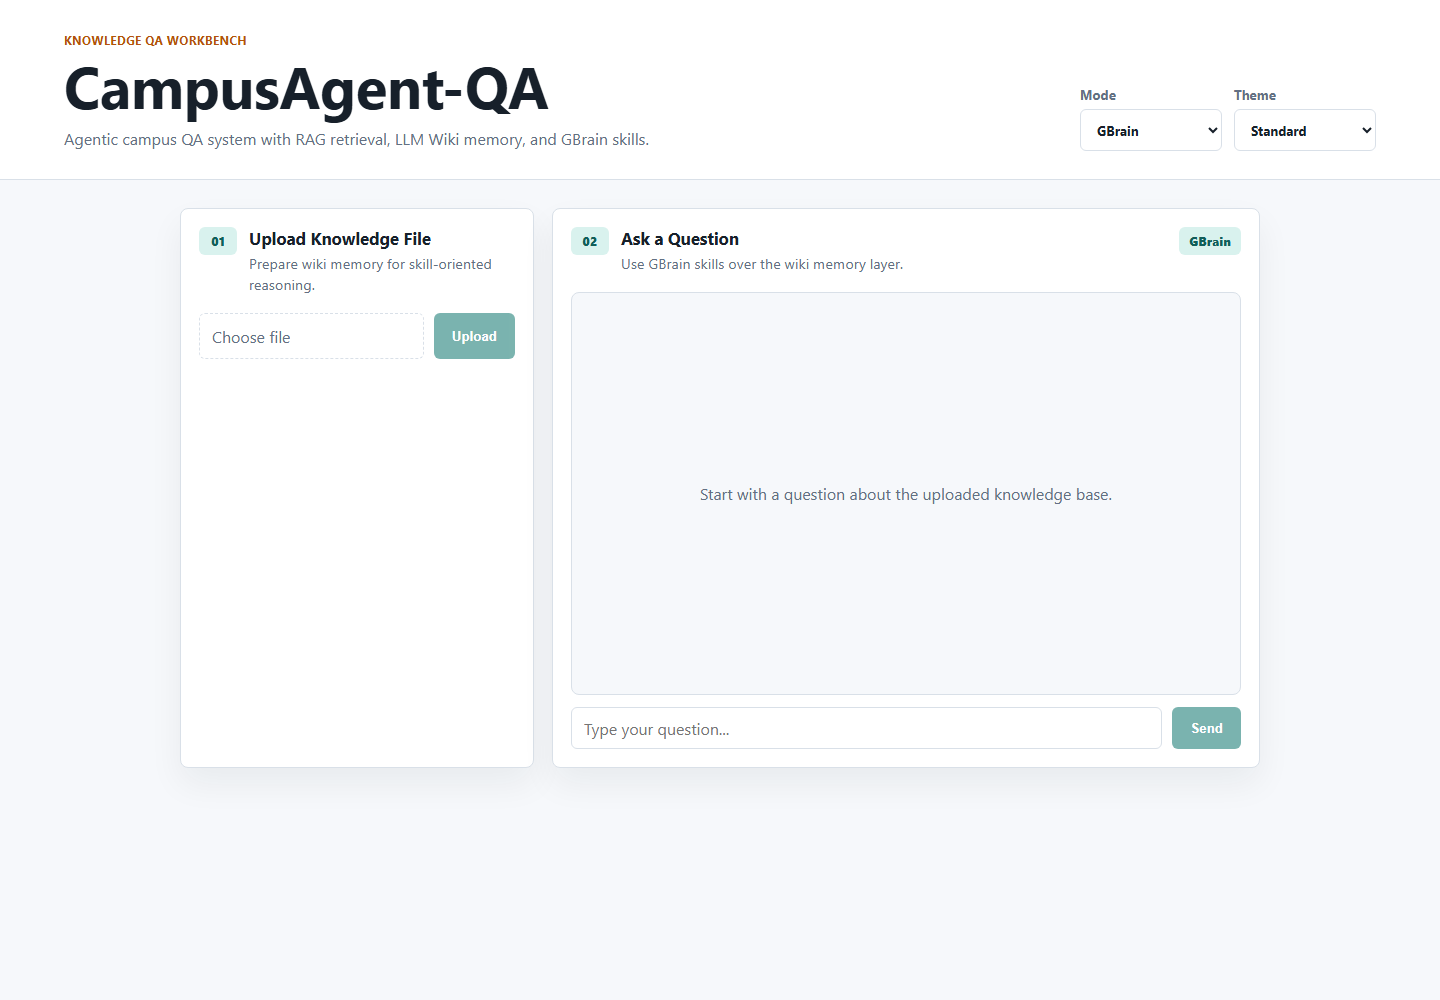
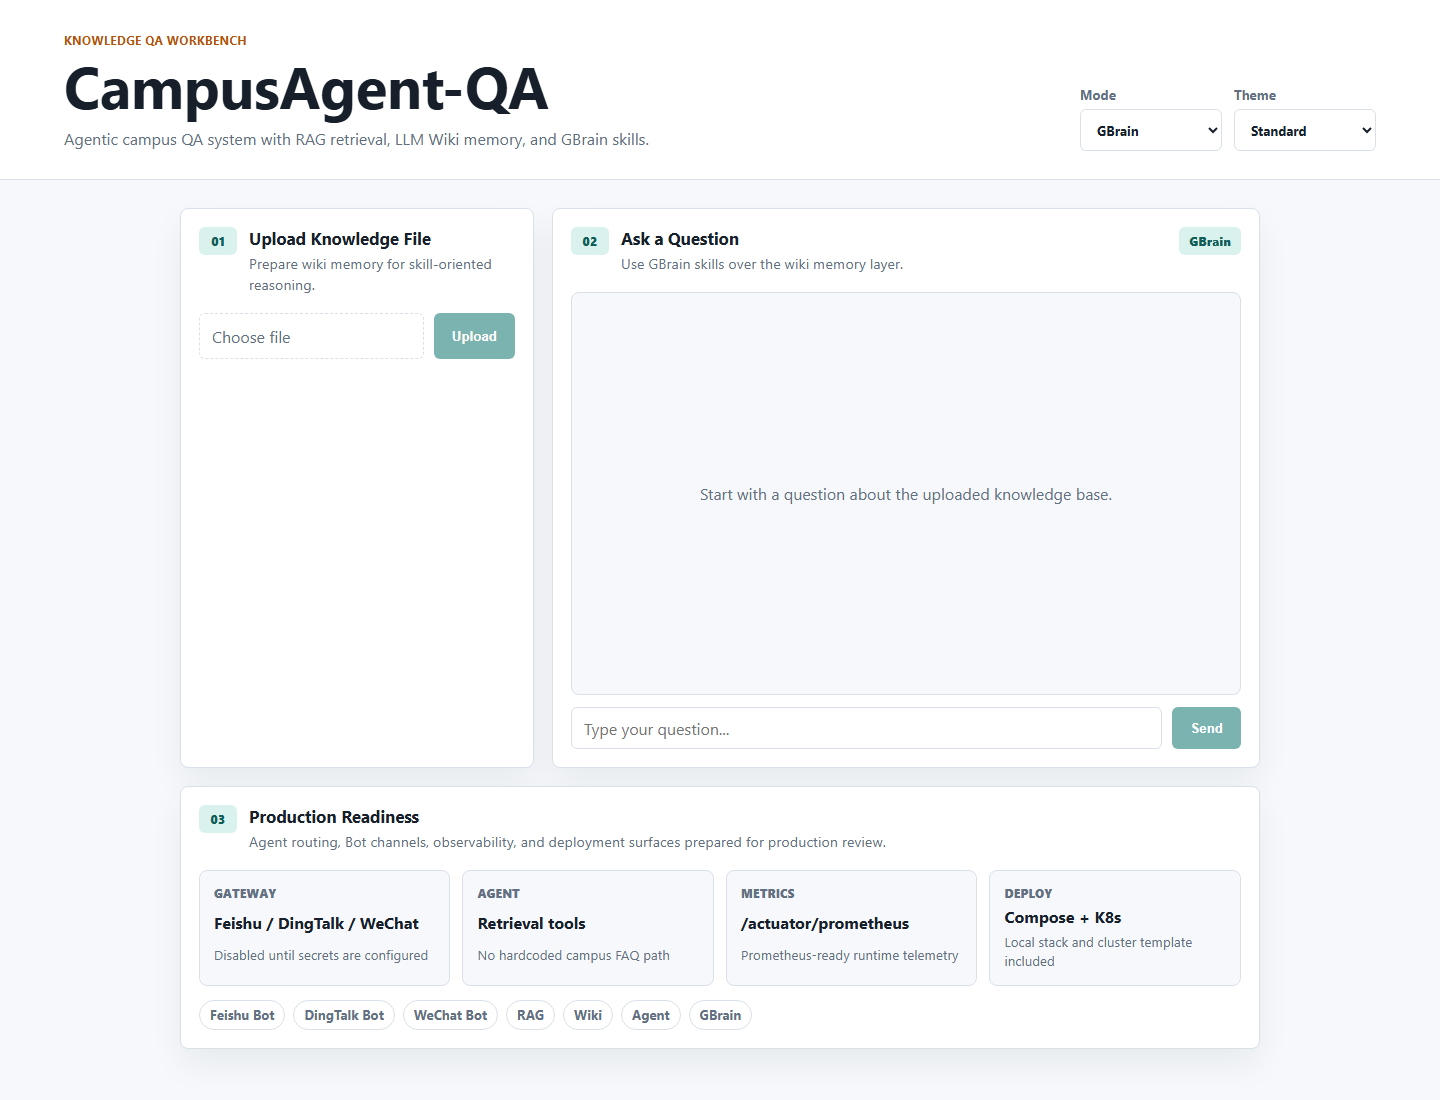
Harden production readiness and expand README visuals

diff --git a/frontend/src/App.vue b/frontend/src/App.vue
@@ -92,6 +92,30 @@
           </button>
         </div>
       </section>
+
+      <section class="panel readiness-panel">
+        <div class="panel-heading">
+          <span class="step">03</span>
+          <div>
+            <h2>Production Readiness</h2>
+            <p>{{ readinessSubtitle }}</p>
+          </div>
+        </div>
+
+        <div class="signal-grid">
+          <article v-for="signal in readinessSignals" :key="signal.label" class="signal-card">
+            <span>{{ signal.label }}</span>
+            <strong>{{ signal.value }}</strong>
+            <small>{{ signal.detail }}</small>
+          </article>
+        </div>
+
+        <div class="integration-strip">
+          <span v-for="channel in botChannels" :key="channel" class="integration-pill">
+            {{ channel }}
+          </span>
+        </div>
+      </section>
     </main>
   </div>
 </template>
@@ -176,6 +200,17 @@ const themes = {
   },
 };
 
+const readinessSubtitle = 'Agent routing, Bot channels, observability, and deployment surfaces prepared for production review.';
+
+const readinessSignals = [
+  { label: 'Gateway', value: 'Feishu / DingTalk / WeChat', detail: 'Disabled until secrets are configured' },
+  { label: 'Agent', value: 'Retrieval tools', detail: 'No hardcoded campus FAQ path' },
+  { label: 'Metrics', value: '/actuator/prometheus', detail: 'Prometheus-ready runtime telemetry' },
+  { label: 'Deploy', value: 'Compose + K8s', detail: 'Local stack and cluster template included' },
+];
+
+const botChannels = ['Feishu Bot', 'DingTalk Bot', 'WeChat Bot', 'RAG', 'Wiki', 'Agent', 'GBrain'];
+
 const selectedFile = ref(null);
 const uploadStatus = ref('');
 const uploading = ref(false);
@@ -196,8 +231,38 @@ function applyTheme() {
   });
 }
 
-onMounted(applyTheme);
+onMounted(() => {
+  applyRoutePreview();
+  applyTheme();
+});
 watch(selectedTheme, applyTheme);
+
+function applyRoutePreview() {
+  const params = new URLSearchParams(window.location.search);
+  const mode = params.get('mode');
+  const theme = params.get('theme');
+  const demo = params.get('demo');
+
+  if (modes.some((candidate) => candidate.value === mode)) {
+    selectedMode.value = mode;
+  }
+  if (theme && themes[theme]) {
+    selectedTheme.value = theme;
+  }
+  if (demo === 'conversation') {
+    messages.value = [
+      { id: ++messageCounter, role: 'User', content: 'Which office handles scholarship policy questions?' },
+      {
+        id: ++messageCounter,
+        role: 'Assistant',
+        content: `${currentMode.value.label} used retrieval-backed context before answering, with a clear path for tool-call traces.`,
+      },
+    ];
+  }
+  if (demo === 'upload') {
+    uploadStatus.value = `Indexed policy-handbook.md for ${currentMode.value.label}.`;
+  }
+}
 
 function onFileChange(event) {
   selectedFile.value = event.target.files?.[0] ?? null;
@@ -496,6 +561,64 @@ select {
   flex-direction: column;
 }
 
+.readiness-panel {
+  grid-column: 1 / -1;
+}
+
+.signal-grid {
+  display: grid;
+  grid-template-columns: repeat(4, minmax(0, 1fr));
+  gap: 12px;
+}
+
+.signal-card {
+  display: grid;
+  gap: 6px;
+  min-width: 0;
+  padding: 14px;
+  border: 1px solid var(--line);
+  border-radius: 8px;
+  background: var(--surface-muted);
+}
+
+.signal-card span {
+  color: var(--muted);
+  font-size: 0.76rem;
+  font-weight: 800;
+  text-transform: uppercase;
+}
+
+.signal-card strong {
+  color: var(--text);
+  font-size: 1rem;
+  line-height: 1.25;
+}
+
+.signal-card small {
+  color: var(--muted);
+  line-height: 1.4;
+}
+
+.integration-strip {
+  display: flex;
+  flex-wrap: wrap;
+  gap: 8px;
+  margin-top: 14px;
+}
+
+.integration-pill {
+  display: inline-flex;
+  align-items: center;
+  min-height: 30px;
+  padding: 0 10px;
+  border: 1px solid var(--line);
+  border-radius: 999px;
+  background: var(--surface);
+  color: var(--muted);
+  font-size: 0.82rem;
+  font-weight: 700;
+}
+
 .messages {
   flex: 1;
   min-height: 360px;
@@ -639,6 +762,10 @@ select {
 
   .message {
     max-width: 92%;
+  }
+
+  .signal-grid {
+    grid-template-columns: 1fr;
   }
 }
 </style>

diff --git a/frontend/index.html b/frontend/index.html
@@ -5,13 +5,12 @@
     <meta name="viewport" content="width=device-width, initial-scale=1.0" />
     <meta
       name="description"
-      content="CampusRAG-QA is a runnable campus knowledge assistant with document upload, vector retrieval, and LLM-backed answers."
+      content="CampusAgent-QA is a runnable campus agent assistant with RAG retrieval, LLM Wiki memory, and GBrain skills."
     />
-    <title>CampusRAG-QA</title>
+    <title>CampusAgent-QA</title>
   </head>
   <body>
     <div id="app"></div>
     <script type="module" src="/src/main.js"></script>
   </body>
 </html>
-

diff --git a/docs/PRODUCTION-GAPS.md b/docs/PRODUCTION-GAPS.md
@@ -1,0 +1,36 @@
+# Remaining Production Gaps
+
+This repository is deployable as an agentic campus QA service, but it still needs the following work before being treated as a mature production system.
+
+## P0 Before Real Users
+
+| Gap | Impact | Recommended fix |
+| --- | --- | --- |
+| No user authentication | Anyone reaching the API can upload, query, or run skills. | Add OAuth/OIDC or gateway auth before public exposure. |
+| No tenant-scoped document isolation | Knowledge and conversations can mix across organizations. | Add `tenantId` to documents, chunks, conversations, tools, and retrieval filters. |
+| `/api/gbrain/skills/run-all` is unauthenticated | Manual skill execution can be abused. | Restrict to admin roles and add audit logs. |
+| No Bot idempotency store | Platform retries can trigger duplicate tool and model calls. | Store `(channel, messageId)` in Redis or MySQL with TTL. |
+
+## P1 Operational Hardening
+
+| Gap | Impact | Recommended fix |
+| --- | --- | --- |
+| Agent tool traces are not returned | Operators cannot inspect why the agent chose a path. | Return tool name, inputs, retrieved sources, and latency. |
+| Wiki/GBrain state is partly in memory | State can disappear after restarts. | Persist skill state, runs, and wiki snapshots. |
+| `ddl-auto: update` | Schema changes are implicit. | Introduce Flyway/Liquibase migrations. |
+| No alert rules | Metrics exist but no alert policy. | Add Prometheus alert rules for 5xx, latency, memory, and tool failures. |
+
+## P2 Product Refinement
+
+| Gap | Impact | Recommended fix |
+| --- | --- | --- |
+| No evaluation set | Agent changes can silently reduce answer quality. | Add golden campus QA and tool-routing cases. |
+| No versioned skills | GBrain changes are hard to review or roll back. | Store skill version, owner, schedule, and changelog. |
+| No admin console | Skill runs and index health are not visible to operators. | Add an authenticated operator dashboard later. |
+
+## Maintenance Focus
+
+- Keep this repo focused on RAG, Wiki, Agent, and GBrain.
+- Do not add Hierarchy/Hyper aggregation here; keep that in `HyperMemory`.
+- Update README screenshots whenever the workbench UI or mode list changes.
+- Run `mvn -B test`, `npm run build`, and `npm audit --audit-level=moderate` before releases.

diff --git a/docs/MAINTENANCE.md b/docs/MAINTENANCE.md
@@ -1,0 +1,35 @@
+# Maintenance Guide
+
+## Release Checklist
+
+1. Update screenshots if the UI changed.
+2. Run backend validation: `cd backend && mvn -B test`.
+3. Run frontend validation: `cd frontend && npm ci && npm run build && npm audit --audit-level=moderate`.
+4. Check local config: `cp .env.example .env && docker compose config`.
+5. Review secrets: `.env`, API keys, Bot tokens, and uploaded documents must not be committed.
+6. Tag the release after CI passes.
+
+## Weekly Maintenance
+
+| Area | Action |
+| --- | --- |
+| Dependencies | Review Dependabot PRs for Maven, npm, and GitHub Actions. |
+| Security | Rotate shared test secrets and confirm `.env.example` contains placeholders only. |
+| Operations | Check health, 5xx rate, p95 latency, JVM memory, and tool-call failures. |
+| Agent quality | Re-run golden examples before changing tools, prompts, or GBrain skills. |
+| Docs | Keep README, OpenAPI, Bot guide, and production gaps aligned with code. |
+
+## Alert Suggestions
+
+| Signal | Threshold | Action |
+| --- | --- | --- |
+| HTTP 5xx | More than 2% for 5 minutes | Inspect backend logs and provider errors. |
+| p95 latency | More than 8 seconds for 10 minutes | Check model latency, retrieval latency, and tool loops. |
+| Tool failure rate | More than 5% for 10 minutes | Inspect Agent/GBrain tool routing. |
+| Bot auth failures | Sudden spike | Check token rotation, replay attempts, or provider config. |
+
+## Versioning
+
+- Use semantic tags such as `v0.1.0`.
+- Keep breaking API changes out of patch releases.
+- Update `docs/openapi/bot-gateway.yaml` in the same PR as API behavior changes.

diff --git a/README.md b/README.md
@@ -16,6 +16,8 @@
   <a href="#quick-start">Quick Start</a> |
   <a href="docs/OPERATIONS.md">Operations</a> |
   <a href="docs/PRODUCTION-ARCHITECTURE.md">Architecture</a> |
+  <a href="docs/PRODUCTION-GAPS.md">Production Gaps</a> |
+  <a href="docs/MAINTENANCE.md">Maintenance</a> |
   <a href="docs/BOT-INTEGRATION.md">Bot Integration</a> |
   <a href="docs/OPEN_SOURCE_REFERENCES.md">References</a>
 </p>
@@ -44,13 +46,17 @@ CampusAgent-QA is the agentic repository in the final three-repo set. It is no l
 | GBrain | `/api/gbrain/chat` | Adds deterministic skill inspection over wiki memory. |
 | Bot Gateway | `/api/bot/{channel}/callback` | Routes normalized Feishu, DingTalk, and WeChat messages. |
 
-## Frontend Preview
+## Visual Walkthrough
 
-The first screen is the actual workbench users operate: mode switch, upload flow, and streaming-ready chat panel.
+Six README-owned screenshots show the runnable workbench across RAG, Agent, GBrain, Bot readiness, and mobile layout.
 
-<p align="center">
-  <img src="docs/assets/screenshots/campus-agent-dashboard.png" alt="CampusAgent-QA workbench" width="920">
-</p>
+| Dashboard | RAG mode | Agent mode |
+| --- | --- | --- |
+| <img src="docs/assets/screenshots/campus-agent-dashboard.png" alt="CampusAgent-QA dashboard" width="300"> | <img src="docs/assets/screenshots/campus-agent-rag-mode.png" alt="CampusAgent-QA RAG mode" width="300"> | <img src="docs/assets/screenshots/campus-agent-agent-mode.png" alt="CampusAgent-QA Agent mode" width="300"> |
+
+| GBrain conversation | Production readiness | Mobile |
+| --- | --- | --- |
+| <img src="docs/assets/screenshots/campus-agent-gbrain-conversation.png" alt="CampusAgent-QA GBrain conversation" width="300"> | <img src="docs/assets/screenshots/campus-agent-readiness.png" alt="CampusAgent-QA production readiness" width="300"> | <img src="docs/assets/screenshots/campus-agent-mobile.png" alt="CampusAgent-QA mobile" width="160"> |
 
 ## Architecture
 
@@ -97,14 +103,18 @@ frontend/             Vue 3 workbench
 docs/assets/          README screenshots
 docs/OPERATIONS.md    Runtime and endpoint notes
 docs/PRODUCTION-ARCHITECTURE.md
+docs/PRODUCTION-GAPS.md
+docs/MAINTENANCE.md
 docs/BOT-INTEGRATION.md
+docs/SCREENSHOTS.md
 docs/openapi/          API contract templates
 deploy/k8s/            Kubernetes deployment template
 docs/PRODUCTION-REVIEW.md
+SECURITY.md            Security policy and secret-handling notes
 docker-compose.yml    Full local runtime stack
 .env.example          Runtime configuration template
 ```
 
 ## Production Readiness
 
-See [Production Review](docs/PRODUCTION-REVIEW.md) for the detailed audit. The next highest-impact work is protecting skill execution, persisting Wiki/GBrain state, exposing tool-call traces, and Docker Compose smoke tests in CI.
+See [Production Review](docs/PRODUCTION-REVIEW.md) and [Production Gaps](docs/PRODUCTION-GAPS.md) for the detailed audit. The remaining production blockers are authentication, tenant isolation, GBrain admin protection, Bot idempotency, and tool-call traces.

diff --git a/SECURITY.md b/SECURITY.md
@@ -1,0 +1,21 @@
+# Security Policy
+
+## Supported Branch
+
+Security fixes target `main` until release branches are introduced.
+
+## Reporting
+
+Do not open public issues for secrets, authentication bypasses, data leaks, or prompt injection vulnerabilities. Use a private maintainer channel first.
+
+## Secret Handling
+
+- Never commit `.env`, model keys, Bot tokens, signing secrets, or uploaded private documents.
+- Rotate `OPENAI_API_KEY`, `BOT_SIGNING_SECRET`, and platform tokens before production launch.
+- Store production secrets in CI secrets, a secret manager, or Kubernetes Secrets.
+
+## Production Controls
+
+- Keep `BOT_ENABLED=false` until provider-native verification and internal HMAC signing are configured.
+- Put public traffic behind HTTPS, rate limiting, and request size limits.
+- Treat `tenantId` as the future authorization boundary for documents, conversations, and Bot channels.

diff --git a/docs/SCREENSHOTS.md b/docs/SCREENSHOTS.md
@@ -1,0 +1,14 @@
+# Screenshot Inventory
+
+The README uses six product screenshots generated from the real Vue workbench.
+
+| File | Purpose |
+| --- | --- |
+| `campus-agent-dashboard.png` | Main GBrain dashboard. |
+| `campus-agent-rag-mode.png` | RAG mode switch. |
+| `campus-agent-agent-mode.png` | Agent mode switch. |
+| `campus-agent-gbrain-conversation.png` | Seeded GBrain conversation state. |
+| `campus-agent-readiness.png` | Production readiness and Bot integration cards. |
+| `campus-agent-mobile.png` | Mobile layout. |
+
+Refresh these files after changing `frontend/src/App.vue`.